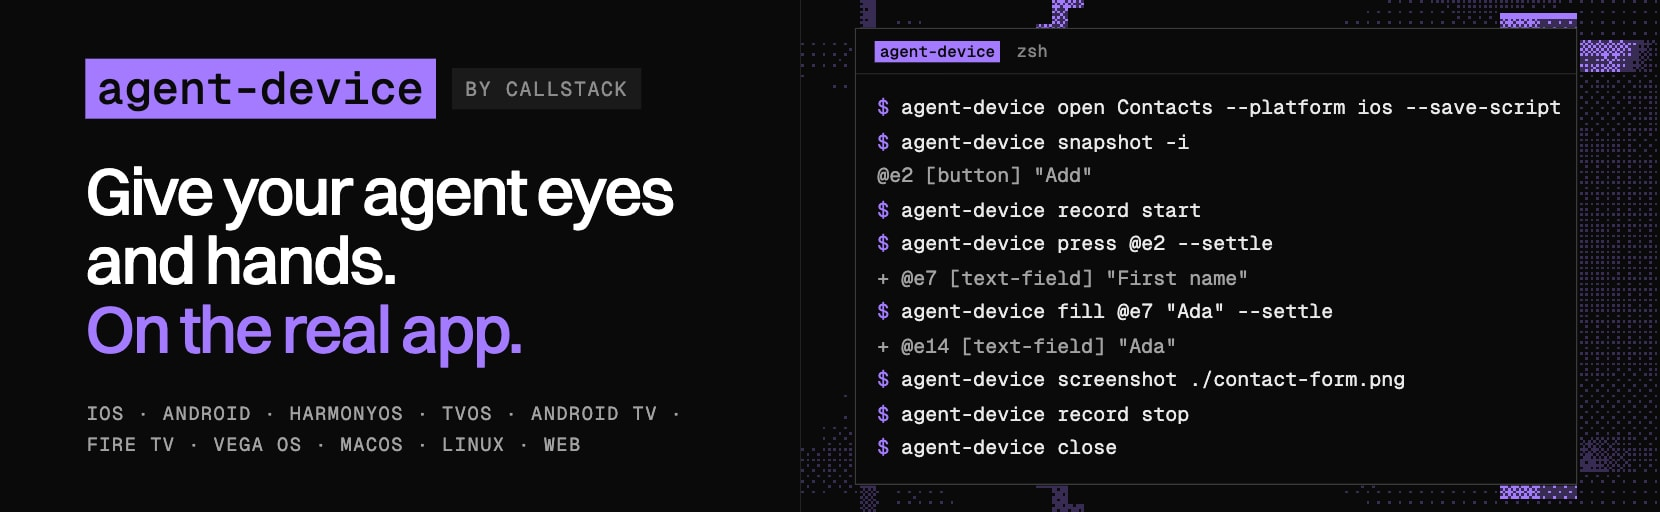
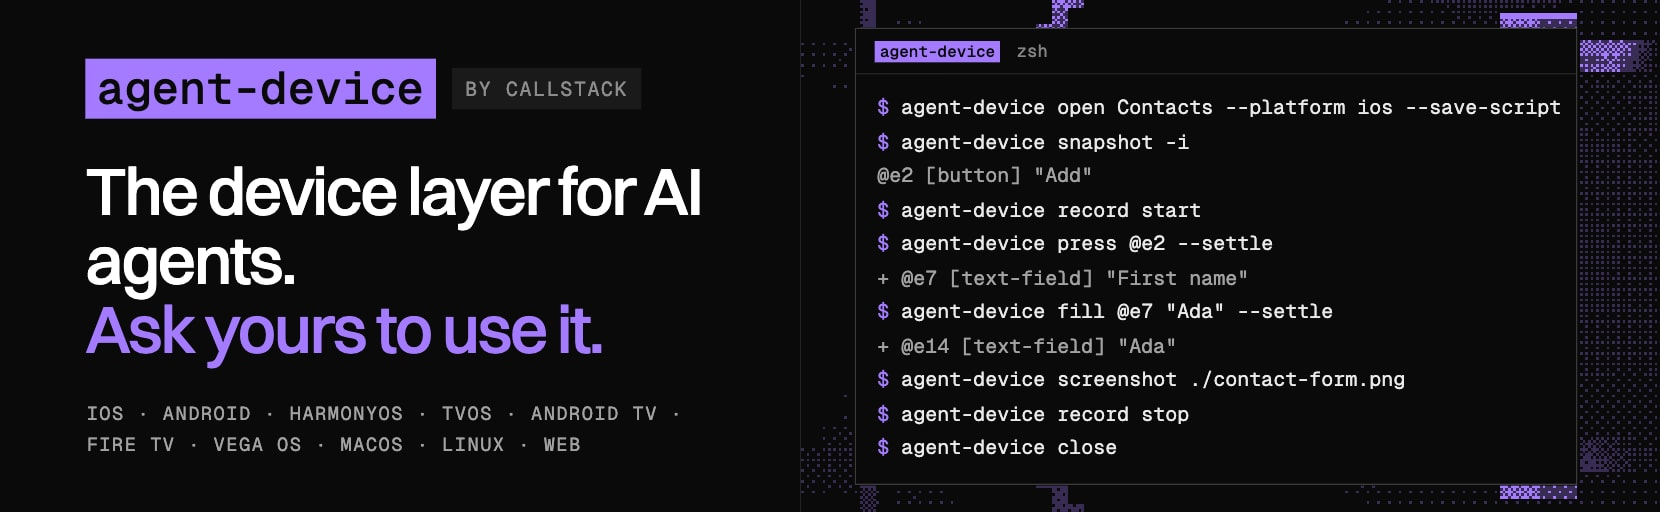
feat(website): position agent-device as the device layer for AI agents
The headline and lede say what the repo is: low-level device
infrastructure that agents use when asked to, through a CLI, MCP server
and typed API, working from compact UI snapshots so the same task costs
fewer tokens, and that agent products build on as their driver. The page
title, meta description, social card and banner follow. The headline's
second beat starts its own line, as on the card.

Changed region(s): [[0.0307, 0.3125, 0.4301, 0.7188]]

diff --git a/website/src/site/content.ts b/website/src/site/content.ts
@@ -19,17 +19,17 @@ export const site = {
    * What it is, in a few words. The home page title is "Name: subtitle" (src/site/meta.ts),
    * 60 characters at most in all.
    */
-  subtitle: 'Eyes and hands for coding agents on real apps',
+  subtitle: 'The device layer for AI agents',
   /** The motto, in two beats. Used by the hero, the social card and the banner. */
-  headline: ['Give your agent eyes and hands.', 'On the real app.'],
+  headline: ['The device layer for AI agents.', 'Ask yours to use it.'],
   /** The hero lede: one or two sentences, naming who it is for. */
-  lede: 'agent-device lets coding agents run, read and operate real iOS, Android, TV and desktop apps. Ask for a change, and your agent builds it, checks it on the device and brings back evidence you can review.',
+  lede: 'agent-device gives agents a CLI, MCP server and typed API for real iOS, Android, TV and desktop apps. They work from compact UI snapshots instead of screenshots, so the same task costs fewer tokens, and products like e2e and T3 Code build on it as their driver.',
   /** The meta description: 160 characters at most. */
   description:
-    'Open-source runtime that lets AI coding agents run, read, operate and verify real iOS, Android, TV and desktop apps, and bring back evidence.',
+    'The device layer for AI agents: a CLI, MCP server and typed API that run and verify real iOS, Android, TV and desktop apps from compact UI snapshots.',
   install: 'npm i -g agent-device',
   /** Alt text for the social card (public/og-image.jpg): the lockup, the motto, the picture. */
-  ogAlt: 'agent-device by Callstack. Give your agent eyes and hands. On the real app.',
+  ogAlt: 'agent-device by Callstack. The device layer for AI agents. Ask yours to use it.',
   /** Who holds the copyright in the footer: "© YEAR AGENT-DEVICE BY CALLSTACK". */
   owner: 'Callstack',
   callstack: 'https://callstack.com/?utm_source=agent-device&utm_medium=referral',

diff --git a/website/src/styles/landing.css b/website/src/styles/landing.css
@@ -159,6 +159,10 @@ canvas {
   font-style: normal;
   color: var(--accent);
 }
+/* The page headline's second beat starts its own line, as on the social card. */
+.h1 em {
+  display: block;
+}
 .lede {
   margin: 0;
   max-width: 40rem;
